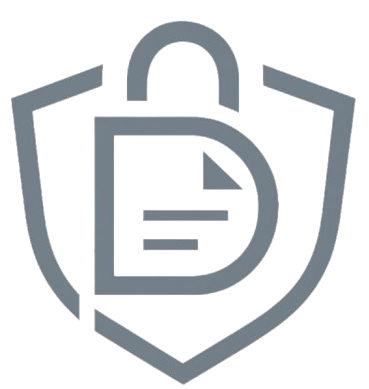
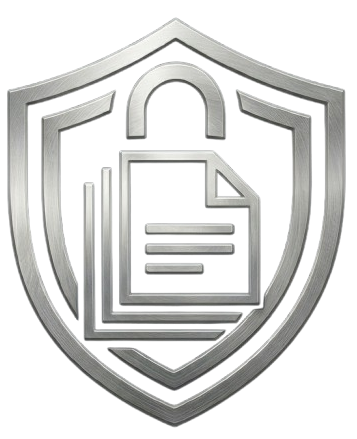
Removendo Applayout, padronizando Appbackground e trocando logotipo

diff --git a/lib/screens/forgot_password_screen.dart b/lib/screens/forgot_password_screen.dart
@@ -1,6 +1,6 @@
 import 'package:flutter/material.dart';
 import '../services/auth_service.dart';
-import '../widgets/app_layout.dart';
+import '../widgets/app_background.dart';
 import 'reset_password_screen.dart';
 
 class ForgotPasswordScreen extends StatefulWidget {
@@ -91,7 +91,7 @@ class _ForgotPasswordScreenState extends State<ForgotPasswordScreen> {
         title: const Text("Recuperar senha"),
         backgroundColor: const Color(0xFF0B0F1A),
       ),
-      body: AppLayout(
+      body: AppBackground(
         child: Column(
           mainAxisAlignment: MainAxisAlignment.center,
           children: [
